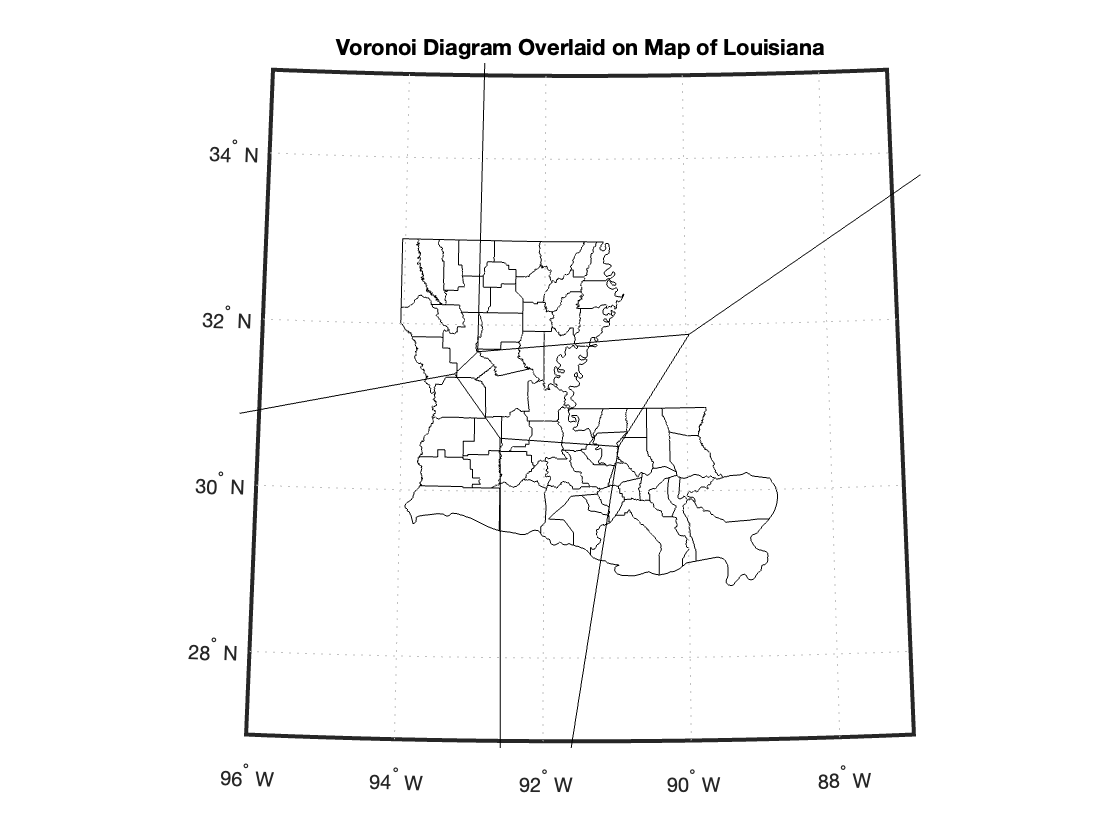
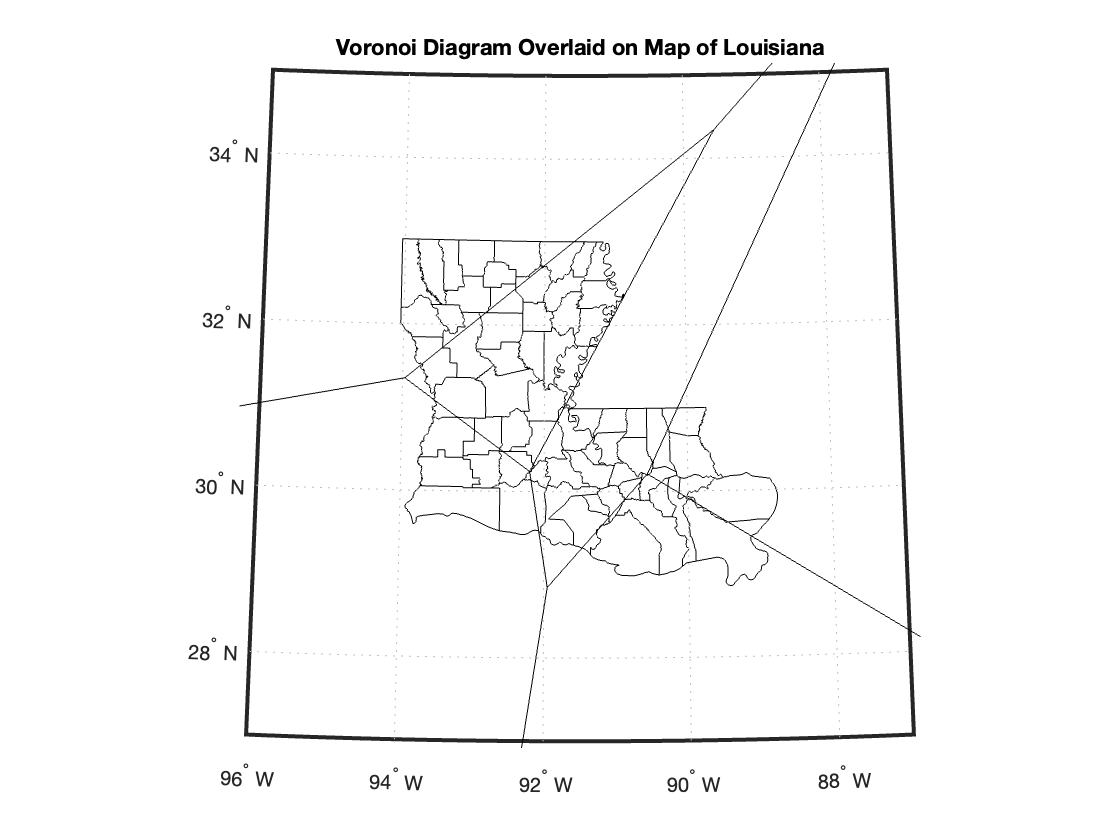
fixed the image

diff --git a/Voronoi_Diagrams.m b/Voronoi_Diagrams.m
@@ -6,13 +6,15 @@ geoshow(ax, states, 'DisplayType', 'polygon', 'FaceColor', [1 1 1])
 
 % Define seed points in geographic coordinates (latitude, longitude)
 seeds = [
-    30.9843, -91.9623;  % Baton Rouge
-    29.9511, -90.0715;  % New Orleans
-    32.5252, -93.7502;  % Shreveport
-    30.2241, -92.0198;  % Lafayette
-    30.2131, -93.2044;  % Lake Charles
-    32.5093, -92.1193;  % Monroe
+    32.5806,	-93.8823; %Caddo
+    30.2293,	-93.3581; %Calcasieu
+    31.1986,	-92.5332; %Rapides
+    30.5383,	-91.0956; %East Baton Rouge
+    29.7882,	-90.1276; %Jefferson
+    30.0687,	-89.9289; %Orleans
 ];
+
+
 
 % Convert geographic coordinates to map coordinates
 [x, y] = mfwdtran(seeds(:,1), seeds(:,2));
